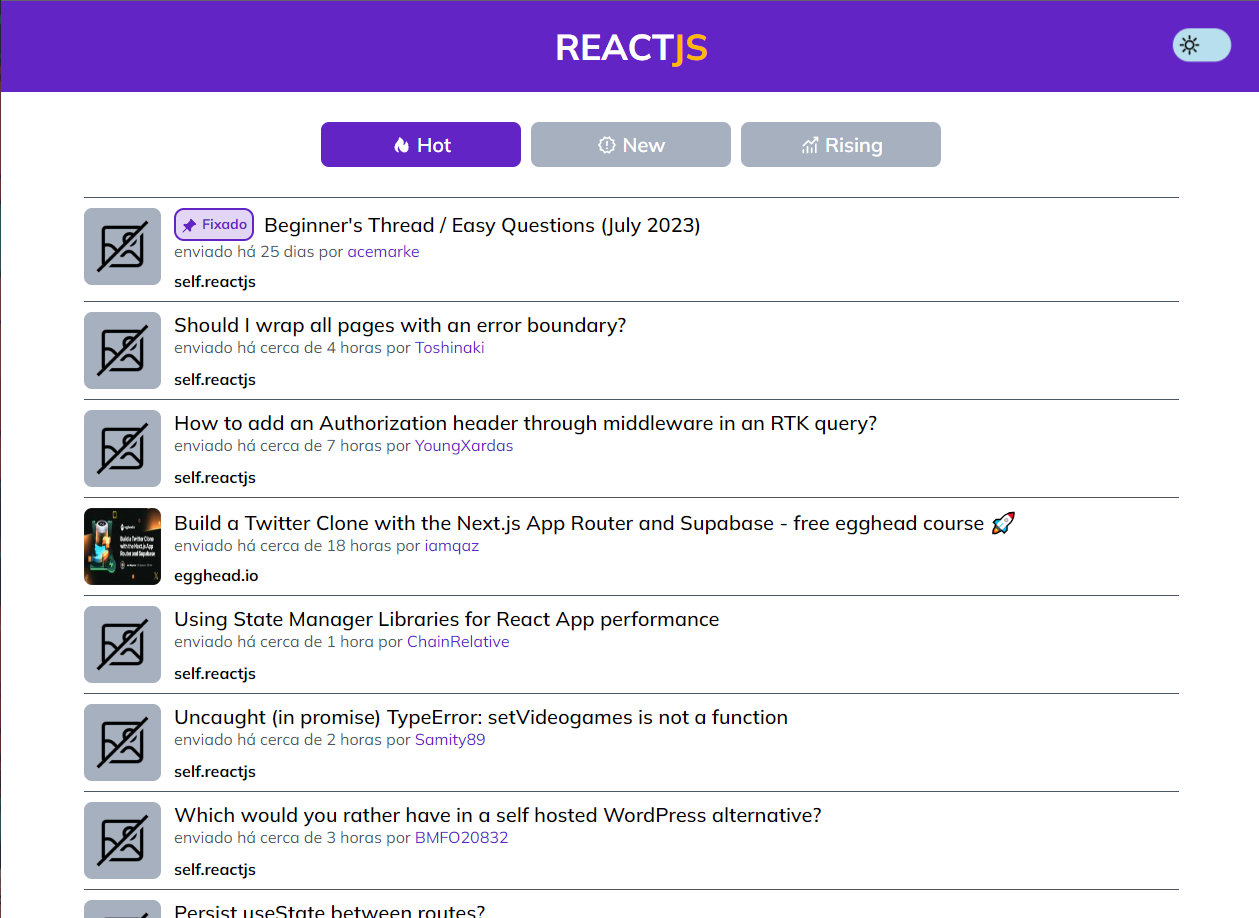
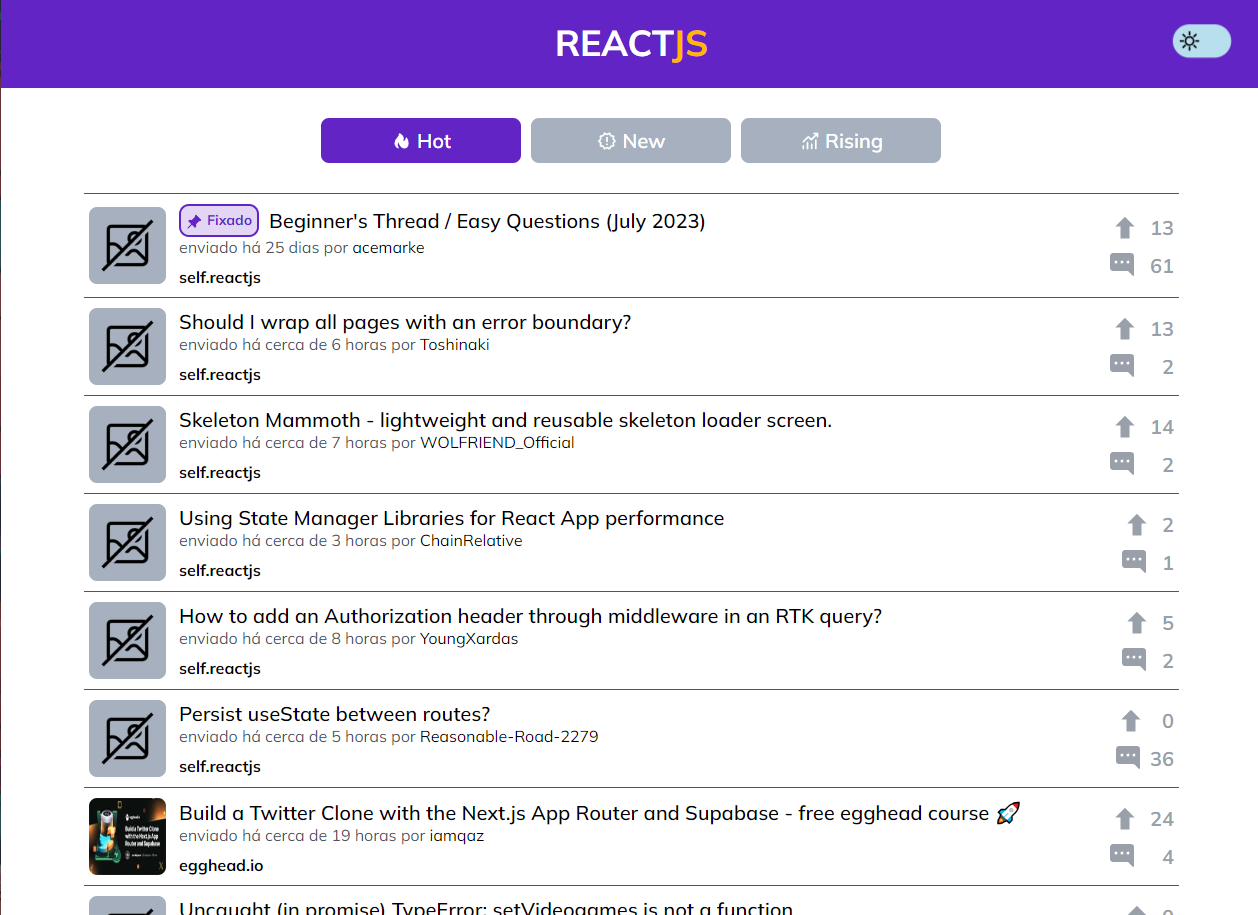
Adicionando número de upvotes e comentários

diff --git a/src/components/PostItem/Styles.ts b/src/components/PostItem/Styles.ts
@@ -1,5 +1,7 @@
 import styled from 'styled-components'
 import { PinAngleFill } from '@styled-icons/bootstrap/PinAngleFill'
+import { ArrowUp } from '@styled-icons/entypo/ArrowUp'
+import { ChatRightDotsFill } from '@styled-icons/bootstrap/ChatRightDotsFill'
 
 export const Item = styled.article`
   width: 100%;
@@ -8,6 +10,7 @@ export const Item = styled.article`
 
   display: flex;
   flex-direction: row;
+  align-items: center;
   cursor: pointer;
 
   &:hover {
@@ -20,6 +23,7 @@ export const Image = styled.img`
   height: 77px;
   border-radius: 8px;
   margin-right: 13px;
+  margin-left: 5px;
 
   background-color: #A7B0BE;
 `
@@ -29,6 +33,27 @@ export const Content = styled.div`
   display: flex;
   flex-direction: column;
   justify-content: space-between;
+`
+
+export const Interactions = styled.div`
+  display: flex;
+  flex-direction: column;
+  height: 100%;
+`
+
+export const InteractionContainer = styled.div`
+  display: flex;
+  flex-direction: row;
+  align-items: center;
+  justify-content: space-between;
+  margin: 5px;
+`
+
+export const InteractionText = styled.span`
+  font-family: 'Mulish', sans-serif;
+  font-weight: 700;
+  font-size: 20px;
+  color: ${({ theme }) => theme.textLight}90;
 `
 
 export const Title = styled.div`
@@ -42,13 +67,13 @@ export const Title = styled.div`
 `
 
 export const CreateInfo = styled.div`
-  color: #4c5667;
+  color: ${({ theme }) => theme.textLight};
   font-size: 16px;
   font-family: 'Mulish', sans-serif;
   margin-bottom: 10px;
 
   a {
-    color: #6324c6;
+    color:  ${({ theme }) => theme.text};
     cursor: pointer;
     text-decoration: none;
   }
@@ -66,9 +91,9 @@ export const PinContainer = styled.div`
   margin-right: 10px;
   border-radius: 10px;
   border: 2px solid ${({ theme }) => theme.primary};
-  background-color: #6324c630;
+  background-color:  ${({ theme }) => theme.primary}30;
 
-  color: #6324c6;
+  color:  ${({ theme }) => theme.primary};
   font-family: 'Mulish', sans-serif;
   font-weight: 700;
   font-size: 14px;
@@ -81,5 +106,17 @@ export const PinContainer = styled.div`
 export const PinIcon = styled(PinAngleFill)`
   width: 16px;
   margin-right: 5px;
-  color: #6324c6;
+  color:  ${({ theme }) => theme.primary};
+`
+
+export const ArrowIcon = styled(ArrowUp)`
+  width: 30px;
+  margin-right: 10px;
+  color: ${({ theme }) => theme.textLight}90;
+`
+
+export const ChatIcon = styled(ChatRightDotsFill)`
+  width: 24px;
+  margin-right: 10px;
+  color: ${({ theme }) => theme.textLight}90;
 `

diff --git a/src/components/PostItem/PostItem.tsx b/src/components/PostItem/PostItem.tsx
@@ -12,7 +12,12 @@ import {
   CreateInfo,
   Domain,
   PinIcon,
-  PinContainer
+  PinContainer,
+  Interactions,
+  ArrowIcon,
+  ChatIcon,
+  InteractionContainer,
+  InteractionText
 } from './Styles'
 
 type TProps = {
@@ -23,11 +28,23 @@ type TProps = {
   time: number,
   url: string,
   stickied: boolean,
-  thumbnail?: string
+  thumbnail?: string,
+  numComments: number,
+  upvotes: number
 }
 
 const PostItem = (props: TProps) => {
-  const { title, author, domain, time, url, stickied, thumbnail } = props
+  const {
+    title,
+    author,
+    domain,
+    time,
+    url,
+    stickied,
+    thumbnail,
+    numComments,
+    upvotes,
+  } = props
 
   const relativeTime = formatDistanceToNow(new Date(time * 1000), { addSuffix: true, locale: ptBR })
 
@@ -68,6 +85,18 @@ const PostItem = (props: TProps) => {
 
         <Domain>{domain}</Domain>
       </Content>
+
+      <Interactions>
+        <InteractionContainer title="Upvotes">
+          <ArrowIcon />
+          <InteractionText>{upvotes}</InteractionText>
+        </InteractionContainer>
+
+        <InteractionContainer title="Comentários">
+          <ChatIcon />
+          <InteractionText>{numComments}</InteractionText>
+        </InteractionContainer>
+      </Interactions>
     </Item>
   )
 }

diff --git a/src/components/Topbar/Topbar.tsx b/src/components/Topbar/Topbar.tsx
@@ -47,7 +47,11 @@ const Topbar = () => {
 
   return (
     <Bar>
-      <Button disable={disableButton} onClick={onClickSwitch}>
+      <Button
+        disable={disableButton}
+        onClick={onClickSwitch}
+        title="Botão para alterar o tema"
+      >
         <Player
           ref={playerRef}
           src={ThemeSwitch}
@@ -60,7 +64,11 @@ const Topbar = () => {
       </Button>
 
 
-      <Title href="https://www.reddit.com/r/reactjs/" target="_blank">
+      <Title
+        href="https://www.reddit.com/r/reactjs/"
+        target="_blank"
+        title="Ir para a página o SubReddit do ReactJS"
+      >
         REACT<span>JS</span>
       </Title>
     </Bar>

diff --git a/src/hooks/useTheme.tsx b/src/hooks/useTheme.tsx
@@ -18,7 +18,8 @@ type TColors = {
   primary: string,
   primaryDark: string,
   background: string,
-  text: string
+  text: string,
+  textLight: string
 }
 
 const themes = {
@@ -28,13 +29,15 @@ const themes = {
     primaryDark: '#340d73',
     background: '#FFFFFF',
     text: '#000000',
+    textLight: '#4c5667',
   },
   dark: {
     name: 'dark',
     primary: '#6324c6',
     primaryDark: '#340d73',
     background: '#000000',
-    text: '#FFFFFF'
+    text: '#FFFFFF',
+    textLight: '#798394',
   }
 }
 

diff --git a/src/components/MainPage/MainPage.tsx b/src/components/MainPage/MainPage.tsx
@@ -25,6 +25,8 @@ type TSinglePost = {
   url: string,
   stickied: boolean,
   thumbnail?: string,
+  num_comments: number,
+  ups: number
 }
 
 type TPostsList = {
@@ -104,6 +106,8 @@ const MainPage = () => {
             url={item.data.url}
             stickied={item.data.stickied}
             thumbnail={item.data.thumbnail}
+            numComments={item.data.num_comments}
+            upvotes={item.data.ups}
           />
         ))}
 

diff --git a/src/services/Services.ts b/src/services/Services.ts
@@ -17,7 +17,9 @@ type TSinglePost = {
   domain: string,
   url: string,
   stickied: boolean,
-  thumbnail?: string
+  thumbnail?: string,
+  num_comments: number,
+  ups: number
 }
 
 type TPostsList = {

diff --git a/README.md b/README.md
@@ -5,7 +5,7 @@ criar um site em ReactJS que exiba posts do [SubReddit do ReactJS](https://www.r
 - Acessar o SubReddit através da logo do projeto, na barra superior;
 - Trocar entre tema claro e escuro pelo switch na barra superior;
 - Trocar entre posts em destaque (Hot), novos (New) e em ascenção (Rising);
-- Ver a lista de posts de cada categoria, exibindo título, momento da criação, thumbnail do post e autor;
+- Ver a lista de posts de cada categoria, exibindo título, momento da criação, thumbnail do post e autor, alem do número de comentários e "curtidas" do post;
 - Acessar o post no Reddit clicando no item da lista e poder ver o perfil do autor, clicando no nome;
 - Carregar mais posts (+10 por clique) através do botão no final da lista.
 
